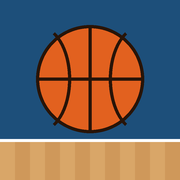
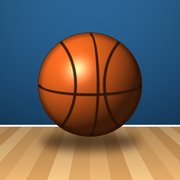
Add files via upload

diff --git a/index.html b/index.html
@@ -3,12 +3,13 @@
 <head>
 <meta charset="utf-8">
 <meta name="viewport" content="width=device-width,initial-scale=1,viewport-fit=cover">
-<title>Estadillo del Jugador</title>
+<title>Estad_Basket</title>
 <meta name="theme-color" content="#1d4f7a">
 <meta name="apple-mobile-web-app-capable" content="yes">
 <meta name="mobile-web-app-capable" content="yes">
-<meta name="apple-mobile-web-app-title" content="Estadillo">
+<meta name="apple-mobile-web-app-title" content="Estad_Basket">
 <meta name="apple-mobile-web-app-status-bar-style" content="default">
+<script>try{var _t=localStorage.getItem("estad_basket.theme");if(_t==="light"||_t==="dark")document.documentElement.setAttribute("data-theme",_t)}catch(e){}</script>
 <link rel="manifest" href="manifest.webmanifest">
 <link rel="apple-touch-icon" href="apple-touch-icon.png">
 <link rel="icon" type="image/png" href="icon-192.png">
@@ -23,6 +24,7 @@
   --f-display:"Saira Condensed","Arial Narrow",Arial,sans-serif;
   --f-body:"Barlow",system-ui,-apple-system,"Segoe UI",Roboto,sans-serif;
   --r:12px;
+  --band:#1d4f7a; --band-ink:#ffffff; --wood-a:#d9a668; --wood-b:#cb9455; --wood-c:#e0b277;
 }
 @media (prefers-color-scheme: dark){:root:not([data-theme="light"]){
   --bg:#0e161e; --surface:#16212c; --surface-2:#1c2936; --ink:#e7eef4; --muted:#93a4b3; --line:#2a3947;
@@ -58,9 +60,18 @@ button:focus-visible,input:focus-visible,textarea:focus-visible{outline:3px soli
 .chip.ex{border-style:dashed}
 
 /* Home */
-.hero{display:flex;justify-content:space-between;align-items:flex-end;gap:12px;padding-top:8px}
-.hero h1{font-size:44px}
-.dorsal{font-family:var(--f-display);font-weight:700;font-size:44px;color:var(--accent);line-height:1}
+.hero{position:relative;display:flex;justify-content:space-between;align-items:flex-end;gap:12px;padding:20px 18px 34px;border-radius:16px;overflow:hidden;color:var(--band-ink);
+  background:linear-gradient(160deg,rgba(255,255,255,.10),rgba(0,0,0,.18)),var(--band)}
+.hero::after{content:"";position:absolute;left:0;right:0;bottom:0;height:16px;border-top:2px solid rgba(255,255,255,.85);
+  background:repeating-linear-gradient(90deg,var(--wood-a) 0 14px,var(--wood-b) 14px 28px,var(--wood-c) 28px 42px)}
+.hero::before{content:"";position:absolute;right:-60px;top:-60px;width:200px;height:200px;border:2px solid rgba(255,255,255,.16);border-radius:50%}
+.hero .eyebrow{color:rgba(255,255,255,.75)}
+.hero h1{font-size:42px;position:relative;overflow-wrap:anywhere}
+.hero > *{position:relative;min-width:0}
+.dorsal{font-family:var(--f-display);font-weight:700;font-size:52px;color:#ff8a4c;line-height:1}
+.theme-seg{display:grid;grid-template-columns:repeat(3,1fr);background:var(--surface-2);border-radius:10px;padding:4px;gap:4px}
+.theme-seg button{min-height:40px;border-radius:8px;font-weight:600;font-size:15px;color:var(--muted)}
+.theme-seg button[aria-pressed="true"]{background:var(--surface);color:var(--ink);box-shadow:0 1px 3px rgba(0,0,0,.15)}
 .live-card{display:flex;justify-content:space-between;align-items:center;gap:12px;border-color:var(--accent);border-width:2px}
 .tiles{display:grid;grid-template-columns:repeat(3,1fr);gap:8px}
 .tile{background:var(--surface-2);border-radius:10px;padding:10px 12px}
@@ -95,6 +106,8 @@ textarea{font-size:13px;font-family:ui-monospace,Menlo,monospace;min-height:110p
 .score .pts{background:var(--ink);border-color:var(--ink)}
 .score .pts b{font-size:34px;color:var(--bg)}
 .score .pts span{color:var(--bg);opacity:.75}
+.score .val{border-color:var(--accent);border-width:2px}
+.score .val b{color:var(--accent)}
 .court-wrap{border-radius:var(--r);overflow:hidden;box-shadow:0 2px 0 rgba(0,0,0,.08)}
 .court{display:block;width:100%;height:auto;touch-action:manipulation;user-select:none;-webkit-user-select:none}
 .court.tap{cursor:crosshair}
@@ -104,11 +117,15 @@ textarea{font-size:13px;font-family:ui-monospace,Menlo,monospace;min-height:110p
 .ft button{min-height:56px;border-radius:var(--r);font-weight:600;display:flex;align-items:center;justify-content:center;gap:8px;border:2px solid var(--made);color:var(--made);background:var(--surface)}
 .ft button.miss{border-color:var(--miss);color:var(--miss)}
 .ft .c{font-family:var(--f-display);font-size:20px;font-weight:700;font-variant-numeric:tabular-nums}
-.stats{display:grid;grid-template-columns:repeat(4,1fr);gap:8px}
+.stats{display:grid;grid-template-columns:repeat(3,1fr);gap:8px}
 .stat{display:flex;flex-direction:column;align-items:center;justify-content:center;gap:2px;min-height:76px;border-radius:var(--r);background:var(--surface);border:1px solid var(--line);padding:6px 4px;text-align:center}
 .stat .c{font-family:var(--f-display);font-weight:700;font-size:28px;line-height:1;font-variant-numeric:tabular-nums}
 .stat .l{font-size:13px;line-height:1.15;color:var(--muted)}
 .stat.neg{background:var(--neg-tint)}
+.stat.neg .c{color:var(--miss)}
+.stat:not(.neg) .c{color:var(--team)}
+.stat:active,.ft button:active,.bigpair button:active{transform:scale(.96)}
+.stat,.ft button,.bigpair button{transition:transform .08s ease}
 .stat.bump,.ft button.bump{animation:bump .25s ease}
 @keyframes bump{50%{transform:scale(.94)}}
 .dock{position:fixed;left:0;right:0;bottom:0;z-index:20;background:var(--surface);border-top:1px solid var(--line);padding-top:10px;padding-bottom:calc(10px + env(safe-area-inset-bottom,0px));padding-left:max(16px,env(safe-area-inset-left,0px));padding-right:max(16px,env(safe-area-inset-right,0px))}
@@ -164,7 +181,7 @@ table.st td .pct{color:var(--muted);font-size:14px;font-weight:500;margin-left:6
 var LS_KEY="estadillo.v1";
 var STATS=[
   {k:"oreb",l:"Rebote ataque"},{k:"dreb",l:"Rebote defensa"},{k:"ast",l:"Asistencia",p:"Asistencias"},{k:"stl",l:"Robo",p:"Robos"},
-  {k:"blk",l:"Tapón",p:"Tapones"},{k:"fd",l:"Falta recibida",p:"Faltas recibidas"},{k:"tov",l:"Pérdida",p:"Pérdidas",neg:true},{k:"pf",l:"Falta",p:"Faltas personales",neg:true}
+  {k:"blk",l:"Tapón",p:"Tapones"},{k:"fd",l:"Falta recibida",p:"Faltas recibidas"},{k:"tov",l:"Pérdida",p:"Pérdidas",neg:true},{k:"blka",l:"Tapón recibido",p:"Tapones recibidos",neg:true},{k:"pf",l:"Falta",p:"Faltas personales",neg:true}
 ];
 var STAT_LABEL={};STATS.forEach(function(s){STAT_LABEL[s.k]=s.l});
 var BASKET={x:75,y:15.75}, R3=67.5, CORNER_Y=29.9;
@@ -183,7 +200,7 @@ function touch(g){g.updatedAt=Date.now();if(!g.example&&S.pending.indexOf(g.id)<
 function seedExample(){
   var ev=[], shots=[[70,40,2,1],[60,10,2,0],[95,25,2,1],[20,60,3,0],[75,30,2,1],[130,70,3,1],[6,15,3,0],[82,20,2,1],[45,45,2,0],[110,55,2,1],[75,88,3,0],[88,35,2,1]];
   shots.forEach(function(s){ev.push({t:"shot",x:s[0],y:s[1],v:s[2],made:!!s[3]})});
-  ["dreb","dreb","ast","stl","oreb","ast","tov","pf","dreb","fd","ast","blk"].forEach(function(k){ev.push({t:"stat",k:k})});
+  ["dreb","dreb","ast","stl","oreb","ast","tov","pf","dreb","fd","ast","blk","blka"].forEach(function(k){ev.push({t:"stat",k:k})});
   ev.push({t:"ft",made:true},{t:"ft",made:false},{t:"ft",made:true});
   var id="ejemplo";
   S.games[id]={id:id,example:true,player:"Mi jugador",dorsal:"",rival:"CB Ejemplo",venue:"casa",date:new Date(Date.now()-6*864e5).toISOString().slice(0,10),status:"final",events:ev,final:{us:58,them:51},createdAt:Date.now(),updatedAt:Date.now()};
@@ -201,7 +218,9 @@ function calc(g){
     else if(e.t==="ft"){c.aft++;if(e.made){c.mft++;c.pts++}}
     else if(e.t==="stat"){c[e.k]=(c[e.k]||0)+1}
   });
-  c.reb=c.oreb+c.dreb;return c;
+  c.reb=c.oreb+c.dreb;
+  c.val=c.pts+c.reb+c.ast+c.stl+c.blk+c.fd-(c.a2-c.m2)-(c.a3-c.m3)-(c.aft-c.mft)-c.tov-c.blka-c.pf;
+  return c;
 }
 function pct(m,a){return a?Math.round(100*m/a)+"%":"–"}
 function games(){return Object.keys(S.games).map(function(k){return S.games[k]}).filter(function(g){return !g.deleted}).sort(function(a,b){return (b.date||"").localeCompare(a.date||"")||b.createdAt-a.createdAt})}
@@ -249,6 +268,15 @@ function courtSVG(shots,opt){
 }
 
 /* ---------- Vistas ---------- */
+var themePref=(function(){try{return localStorage.getItem("estad_basket.theme")||"auto"}catch(e){return "auto"}})();
+function applyTheme(){
+  var root=document.documentElement;
+  if(themePref==="auto")root.removeAttribute("data-theme");else root.setAttribute("data-theme",themePref);
+  var dark=themePref==="dark"||(themePref==="auto"&&window.matchMedia&&matchMedia("(prefers-color-scheme: dark)").matches);
+  var m=document.querySelector('meta[name="theme-color"]');if(m)m.setAttribute("content",dark?"#0e161e":"#1d4f7a");
+}
+applyTheme();
+try{matchMedia("(prefers-color-scheme: dark)").addEventListener("change",applyTheme)}catch(e){}
 var view="home", currentId=null, pendingShot=null, confirmDel=false, editPlayer=false, flash=null, notice="";
 var app=document.getElementById("app");
 
@@ -270,7 +298,7 @@ function render(){
 function vHome(){
   var gs=games(), real=gs.filter(function(g){return !g.example&&g.status==="final"}), basis=real.length?real:gs.filter(function(g){return g.status==="final"});
   var live=gs.filter(function(g){return g.status==="live"});
-  var h='<div class="hero"><div><div class="eyebrow">Estadillo</div><h1>'+esc(S.player.name)+'</h1></div>'+(S.player.dorsal?'<div class="dorsal num">#'+esc(S.player.dorsal)+'</div>':"")+'</div>';
+  var h='<div class="hero"><div><div class="eyebrow">Estad_Basket</div><h1>'+esc(S.player.name)+'</h1></div>'+(S.player.dorsal?'<div class="dorsal num">#'+esc(S.player.dorsal)+'</div>':"")+'</div>';
   if(editPlayer){
     h+='<form class="card form" data-form="player"><div class="two"><label class="field">Nombre del jugador<input type="text" id="pl-name" value="'+esc(S.player.name)+'" maxlength="40"></label><label class="field">Dorsal<input type="text" id="pl-dorsal" inputmode="numeric" value="'+esc(S.player.dorsal)+'" maxlength="3"></label></div><div class="row"><button class="btn primary" type="submit">Guardar</button><button class="btn ghost" type="button" data-act="cancel-player">Cancelar</button></div></form>';
   }
@@ -279,17 +307,18 @@ function vHome(){
   });
   h+='<button class="btn primary block" data-act="new">Nuevo partido</button>';
   if(basis.length){
-    var t={pts:0,reb:0,ast:0,m2:0,a2:0,m3:0,a3:0,mft:0,aft:0,stl:0};
+    var t={pts:0,val:0,reb:0,ast:0,m2:0,a2:0,m3:0,a3:0,mft:0,aft:0,stl:0,tov:0};
     basis.forEach(function(g){var c=calc(g);for(var k in t)t[k]+=c[k]});
     var n=basis.length,avg=function(v){return (v/n).toFixed(1).replace(".",",")};
-    h+='<section class="card"><div class="section-head"><h2>Temporada</h2><span class="muted small">'+(real.length?n+(n===1?" partido":" partidos"):'<span class="chip ex">Ejemplo</span>')+'</span></div>'+
-      '<div class="tiles"><div class="tile"><b>'+avg(t.pts)+'</b><span>Puntos / partido</span></div><div class="tile"><b>'+avg(t.reb)+'</b><span>Rebotes</span></div><div class="tile"><b>'+avg(t.ast)+'</b><span>Asistencias</span></div>'+
+    h+='<section class="card"><div class="section-head"><h2>Temporada</h2><span class="muted small">'+(real.length?"Media de "+n+(n===1?" partido":" partidos"):'<span class="chip ex">Ejemplo</span>')+'</span></div>'+
+      '<div class="tiles"><div class="tile"><b>'+avg(t.pts)+'</b><span>Puntos</span></div><div class="tile"><b style="color:var(--accent)">'+avg(t.val)+'</b><span>Valoración</span></div><div class="tile"><b>'+avg(t.reb)+'</b><span>Rebotes</span></div>'+
+      '<div class="tile"><b>'+avg(t.ast)+'</b><span>Asistencias</span></div><div class="tile"><b>'+avg(t.stl)+'</b><span>Robos</span></div><div class="tile"><b>'+avg(t.tov)+'</b><span>Pérdidas</span></div>'+
       '<div class="tile"><b>'+pct(t.m2,t.a2)+'</b><span>T2 · '+t.m2+'/'+t.a2+'</span></div><div class="tile"><b>'+pct(t.m3,t.a3)+'</b><span>T3 · '+t.m3+'/'+t.a3+'</span></div><div class="tile"><b>'+pct(t.mft,t.aft)+'</b><span>TL · '+t.mft+'/'+t.aft+'</span></div></div></section>';
   }
   h+='<section class="card"><div class="section-head"><h2>Partidos</h2><button class="btn ghost small" style="min-height:36px" data-act="edit-player">Editar jugador</button></div><div class="games">';
   if(!gs.length)h+='<p class="muted">Aún no hay partidos. Pulsa «Nuevo partido» al empezar el siguiente.</p>';
   gs.forEach(function(g){var c=calc(g);
-    h+='<button class="game-row" data-act="'+(g.status==="live"?"open-game":"detail")+'" data-id="'+g.id+'"><span class="date">'+fmtDate(g.date)+'</span><span class="vs">vs '+esc(g.rival)+(venueTxt(g)?' <span class="muted small">· '+venueTxt(g)+'</span>':"")+'<br>'+(g.status==="live"?'<span class="chip live">En juego</span>':resultChip(g))+(g.example?' <span class="chip ex">Ejemplo</span>':"")+'</span><span class="pts">'+c.pts+'<small>PTS</small></span></button>';
+    h+='<button class="game-row" data-act="'+(g.status==="live"?"open-game":"detail")+'" data-id="'+g.id+'"><span class="date">'+fmtDate(g.date)+'</span><span class="vs">vs '+esc(g.rival)+'<br>'+(venueTxt(g)?'<span class="muted small">'+venueTxt(g)+'</span> ':"")+(g.status==="live"?'<span class="chip live">En juego</span>':resultChip(g))+(g.example?' <span class="chip ex">Ejemplo</span>':"")+'</span><span class="pts">'+c.pts+'<small>PTS · VAL '+c.val+'</small></span></button>';
   });
   h+='</div></section>';
   var bl=backupState();
@@ -314,6 +343,9 @@ function vHome(){
   } else {
     h+='<button class="btn ghost small" style="align-self:center;min-height:36px;color:var(--muted)" data-act="toggle-sync">Conectar con Google Sheets (opcional)</button>';
   }
+  h+='<section class="card form"><div class="section-head" style="margin:0"><h2>Apariencia</h2></div><div class="theme-seg" role="group" aria-label="Tema">'+
+     [["auto","Automático"],["light","Claro"],["dark","Oscuro"]].map(function(o){return '<button data-act="theme" data-v="'+o[0]+'" aria-pressed="'+(themePref===o[0])+'">'+o[1]+'</button>'}).join("")+
+     '</div><p class="small muted" style="margin:0">«Automático» sigue el modo del móvil.</p></section>';
   return h;
 }
 
@@ -330,7 +362,7 @@ function vGame(){
   var g=S.games[currentId];if(!g){view="home";return vHome()}
   var c=calc(g), shots=g.events.filter(function(e){return e.t==="shot"});
   var h='<div class="gbar"><button class="btn ghost" data-act="home">‹ Inicio</button><div class="who"><div class="eyebrow">'+esc(g.player)+(g.dorsal?" #"+esc(g.dorsal):"")+' · '+fmtDate(g.date)+(venueTxt(g)?' · '+venueTxt(g):"")+'</div><h2>vs '+esc(g.rival)+'</h2></div><button class="btn" data-act="end">Terminar</button></div>';
-  h+='<div class="score"><div class="pts"><b>'+c.pts+'</b><span>Puntos</span></div><div><b>'+c.m2+'/'+c.a2+'</b><span>T2</span></div><div><b>'+c.m3+'/'+c.a3+'</b><span>T3</span></div><div><b>'+c.mft+'/'+c.aft+'</b><span>TL</span></div><div><b>'+c.reb+'</b><span>Reb</span></div></div>';
+  h+='<div class="score"><div class="pts"><b>'+c.pts+'</b><span>Puntos</span></div><div><b>'+c.m2+'/'+c.a2+'</b><span>T2</span></div><div><b>'+c.m3+'/'+c.a3+'</b><span>T3</span></div><div><b>'+c.mft+'/'+c.aft+'</b><span>TL</span></div><div class="val"><b>'+c.val+'</b><span>Val</span></div></div>';
   h+='<div class="court-wrap">'+courtSVG(shots,{tap:true,id:"court-live",highlightLast:true,pending:pendingShot})+'</div>';
   h+='<p class="hint">Toca la pista en el punto desde donde ha tirado</p>';
   h+='<div class="ft"><span class="lbl">TIRO<br>LIBRE</span><button data-act="ft" data-made="1" class="'+(flash==="ft1"?"bump":"")+'"><span class="c">'+c.mft+'</span> Anotado</button><button class="miss '+(flash==="ft0"?"bump":"")+'" data-act="ft" data-made="0"><span class="c">'+(c.aft-c.mft)+'</span> Fallado</button></div>';
@@ -361,11 +393,12 @@ function vDetail(){
   var cs=getComputedStyle(document.documentElement);
   var h='<div class="gbar"><button class="btn ghost" data-act="home">‹ Inicio</button><span>'+(g.example?'<span class="chip ex">Ejemplo</span>':"")+'</span></div>'+
   '<div><div class="eyebrow">'+fmtDate(g.date,true)+(venueTxt(g)?' · '+venueTxt(g):"")+'</div><h1 style="font-size:38px">vs '+esc(g.rival)+'</h1></div>'+
-  '<div class="result"><span class="big">'+c.pts+'<span class="eyebrow" style="font-size:15px;margin-left:6px">pts</span></span>'+(resultChip(g)||'<button class="btn small" data-act="end" style="min-height:36px">Añadir resultado</button>')+'</div>';
+  '<div class="result"><span class="big">'+c.pts+'<span class="eyebrow" style="font-size:15px;margin-left:6px">pts</span></span><span class="big" style="color:var(--accent)">'+c.val+'<span class="eyebrow" style="font-size:15px;margin-left:6px">val</span></span>'+(resultChip(g)||'<button class="btn small" data-act="end" style="min-height:36px">Añadir resultado</button>')+'</div>';
   if(!g.example&&g.status==="final"&&(!S.lastBackup||(g.updatedAt||0)>S.lastBackup)){
     h+='<div class="card form" style="border-color:var(--accent)"><p style="margin:0"><b>Guarda una copia del partido.</b> Así no lo pierdes si cambias de móvil o se borra el navegador.</p><button class="btn primary block" data-act="backup">Guardar copia</button>'+(notice?'<p class="small" style="margin:0">'+esc(notice)+'</p>':"")+'</div>';
   } else if(notice&&/[Cc]opia/.test(notice)){h+='<p class="small" style="margin:0"><b>'+esc(notice)+'</b></p>'}
   h+='<section class="card"><table class="st"><tbody>'+
+    '<tr><td><b>Valoración</b> <span class="muted small">(sistema ACB/FEB)</span></td><td>'+c.val+'</td></tr>'+
     '<tr><td>Tiros de 2</td><td>'+c.m2+'/'+c.a2+'<span class="pct">'+pct(c.m2,c.a2)+'</span></td></tr>'+
     '<tr><td>Triples</td><td>'+c.m3+'/'+c.a3+'<span class="pct">'+pct(c.m3,c.a3)+'</span></td></tr>'+
     '<tr><td>Tiros libres</td><td>'+c.mft+'/'+c.aft+'<span class="pct">'+pct(c.mft,c.aft)+'</span></td></tr>'+
@@ -450,6 +483,7 @@ document.addEventListener("click",function(ev){
     if(S.activeId===currentId)S.activeId=null;confirmDel=false;view="home";render()}
   else if(a==="edit-player"){editPlayer=true;render()}
   else if(a==="cancel-player"){editPlayer=false;render()}
+  else if(a==="theme"){themePref=b.getAttribute("data-v");try{localStorage.setItem("estad_basket.theme",themePref)}catch(e){}applyTheme();render()}
   else if(a==="backup"){doBackup()}
   else if(a==="csv"){doCSV()}
   else if(a==="restore-file"){var inp=document.getElementById("restore-input");if(inp){inp.value="";inp.click()}}
@@ -464,9 +498,9 @@ function summary(g){
   var c=calc(g);
   return g.player+(g.dorsal?" (#"+g.dorsal+")":"")+" vs "+g.rival+" · "+fmtDate(g.date)+(venueTxt(g)?" · "+venueTxt(g).toLowerCase():"")+"\n"+
   (g.final?"Resultado: "+g.final.us+"–"+g.final.them+"\n":"")+
-  "Puntos: "+c.pts+" · T2 "+c.m2+"/"+c.a2+" · T3 "+c.m3+"/"+c.a3+" · TL "+c.mft+"/"+c.aft+"\n"+
+  "Puntos: "+c.pts+" · Valoración: "+c.val+"\n"+"T2 "+c.m2+"/"+c.a2+" · T3 "+c.m3+"/"+c.a3+" · TL "+c.mft+"/"+c.aft+"\n"+
   "Rebotes "+c.reb+" ("+c.oreb+" at. + "+c.dreb+" def.) · Asist. "+c.ast+" · Robos "+c.stl+" · Tapones "+c.blk+"\n"+
-  "Pérdidas "+c.tov+" · Faltas "+c.pf+" · Faltas recibidas "+c.fd;
+  "Pérdidas "+c.tov+" · Tapones recibidos "+c.blka+" · Faltas "+c.pf+" · Faltas recibidas "+c.fd;
 }
 function copyText(t,okMsg){
   function fallback(){notice="No se ha podido copiar automáticamente. Selecciona el texto y cópialo.";render();
@@ -499,8 +533,8 @@ function shareText(name,text,mime,title,done){
 function doBackup(){
   var gs=realGames();
   if(!gs.length){notice="Aún no hay partidos que guardar.";render();return}
-  var data=JSON.stringify({app:"estadillo",v:1,exportado:new Date().toISOString(),player:S.player,games:gs});
-  shareText("estadillo-copia-"+today()+".txt",data,"text/plain","Copia del Estadillo",function(res){
+  var data=JSON.stringify({app:"estad_basket",v:1,exportado:new Date().toISOString(),player:S.player,games:gs});
+  shareText("estad_basket-copia-"+today()+".txt",data,"text/plain","Copia de Estad_Basket",function(res){
     if(res==="cancel"){notice="No se ha guardado la copia.";render();return}
     S.lastBackup=Date.now();persist();
     notice=res==="shared"?"Copia guardada ("+gs.length+(gs.length===1?" partido).":" partidos)."):"Copia descargada en el móvil (carpeta Descargas o Archivos).";
@@ -511,13 +545,13 @@ function csvCell(v){v=v==null?"":String(v);return /[;"\n]/.test(v)?'"'+v.replace
 function doCSV(){
   var gs=realGames().filter(function(g){return g.status==="final"}).sort(function(a,b){return (a.date||"").localeCompare(b.date||"")});
   if(!gs.length){notice="Aún no hay partidos terminados para exportar.";render();return}
-  var head=["Fecha","Rival","Lugar","Jugador","Dorsal","Nuestro equipo","Rival puntos","Puntos","T2 anotados","T2 intentos","T3 anotados","T3 intentos","TL anotados","TL intentos","Rebotes ataque","Rebotes defensa","Rebotes","Asistencias","Robos","Tapones","Faltas recibidas","Pérdidas","Faltas","Zona anotados","Zona intentos","Media dist. anotados","Media dist. intentos"];
+  var head=["Fecha","Rival","Lugar","Jugador","Dorsal","Nuestro equipo","Rival puntos","Puntos","T2 anotados","T2 intentos","T3 anotados","T3 intentos","TL anotados","TL intentos","Rebotes ataque","Rebotes defensa","Rebotes","Asistencias","Robos","Tapones","Faltas recibidas","Pérdidas","Tapones recibidos","Faltas","Valoración","Zona anotados","Zona intentos","Media dist. anotados","Media dist. intentos"];
   var rows=[head];
   gs.forEach(function(g){var c=calc(g),p=(g.date||"").split("-");
-    rows.push([p.length===3?p[2]+"/"+p[1]+"/"+p[0]:"",g.rival,venueTxt(g),g.player,g.dorsal,g.final?g.final.us:"",g.final?g.final.them:"",c.pts,c.m2,c.a2,c.m3,c.a3,c.mft,c.aft,c.oreb,c.dreb,c.reb,c.ast,c.stl,c.blk,c.fd,c.tov,c.pf,c.zona[0],c.zona[1],c.media[0],c.media[1]]);
+    rows.push([p.length===3?p[2]+"/"+p[1]+"/"+p[0]:"",g.rival,venueTxt(g),g.player,g.dorsal,g.final?g.final.us:"",g.final?g.final.them:"",c.pts,c.m2,c.a2,c.m3,c.a3,c.mft,c.aft,c.oreb,c.dreb,c.reb,c.ast,c.stl,c.blk,c.fd,c.tov,c.blka,c.pf,c.val,c.zona[0],c.zona[1],c.media[0],c.media[1]]);
   });
   var text=""+rows.map(function(r){return r.map(csvCell).join(";")}).join("\r\n");
-  shareText("estadillo-partidos-"+today()+".csv",text,"text/csv","Partidos (CSV)",function(res){
+  shareText("estad_basket-partidos-"+today()+".csv",text,"text/csv","Partidos (CSV)",function(res){
     notice=res==="cancel"?"":res==="shared"?"CSV enviado.":"CSV descargado en el móvil.";render();
   });
 }
@@ -528,7 +562,7 @@ function doImport(raw){
     if(d.player&&!hadReal)S.player=d.player;
     if(n&&S.games.ejemplo)delete S.games.ejemplo;
     persist();scheduleSync();notice=n?("Restaurados "+n+(n===1?" partido.":" partidos.")):"Esa copia no tiene partidos nuevos para este móvil.";view="home";render();
-  }catch(e){notice="Ese archivo no es una copia del Estadillo. Elige el archivo «estadillo-copia-…» que guardaste.";render()}
+  }catch(e){notice="Ese archivo no es una copia de Estad_Basket. Elige el archivo «estad_basket-copia-…» (o «estadillo-copia-…») que guardaste.";render()}
 }
 document.addEventListener("change",function(ev){
   if(ev.target.id!=="restore-input")return;var f=ev.target.files&&ev.target.files[0];if(!f)return;

diff --git a/sw.js b/sw.js
@@ -1,6 +1,6 @@
-// Estadillo: guarda la app en el móvil para que se abra aunque no haya cobertura.
+// Estad_Basket: guarda la app en el móvil para que se abra aunque no haya cobertura.
 // Si cambias index.html, sube también este archivo cambiando la versión de CACHE.
-const CACHE = 'estadillo-v1';
+const CACHE = 'estad_basket-v1';
 const SHELL = ['./', './index.html', './manifest.webmanifest', './icon-192.png', './icon-512.png', './apple-touch-icon.png'];
 
 self.addEventListener('install', (e) => {

diff --git a/LEEME.md b/LEEME.md
@@ -1,4 +1,4 @@
-# Estadillo del Jugador
+# Estad_Basket
 
 App web para llevar las estadísticas de un jugador de baloncesto partido a partido.
 Guarda cada acción en el propio móvil, funciona sin cobertura y no necesita ninguna cuenta.
@@ -21,7 +21,7 @@ Los archivos `Codigo.gs` y `LEEME.md` no hace falta subirlos (si se suben, no pa
 
 ## 3. Copias de seguridad y cambio de móvil
 - Al terminar cada partido, la app propone «Guardar copia». Se abre el menú de compartir:
-  envía el archivo `estadillo-copia-AAAA-MM-DD.txt` a WhatsApp (a ti mismo), al correo o a Archivos.
+  envía el archivo `estad_basket-copia-AAAA-MM-DD.txt` a WhatsApp (a ti mismo), al correo o a Archivos.
 - En la pantalla de inicio verás cuándo fue la última copia y si hay partidos sin copiar.
 - Móvil nuevo: instala la app (paso 2), pulsa «Restaurar desde archivo» y elige la última copia.
 - «Exportar a Excel (CSV)» genera una tabla con una fila por partido.
@@ -31,5 +31,5 @@ Quien quiera copia automática en una hoja de Google puede usar `Codigo.gs`
 (instrucciones dentro del archivo) y pulsar «Conectar con Google Sheets (opcional)» en la app.
 
 ## Si cambias el código
-Cambia en `sw.js` la línea `estadillo-v1` por `estadillo-v2` (y así sucesivamente)
+Cambia en `sw.js` la línea `estad_basket-v1` por `estad_basket-v2` (y así sucesivamente)
 para que los móviles descarguen la versión nueva.
